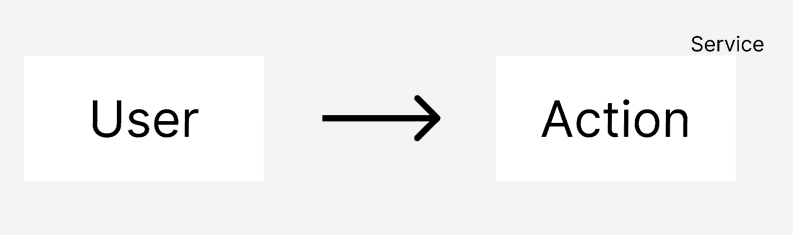
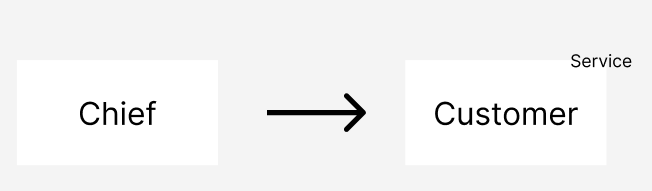
[UPDATE] OCP

diff --git a/oop/OCP.md b/oop/OCP.md
@@ -1,44 +1,78 @@
 # OCP | 개방 폐쇄의 원칙 (Open Closed Principle)
+>개방 폐쇄의 원칙 : 확장에 대해 열려 있어야 하고, 수정에 대해서는 닫혀 있어야 한다
 
-> 개방 폐쇄의 원칙 : 확장에 대해 열려 있어야 하고, 수정에 대해서는 닫혀 있어야 한다
 
-개방 폐쇄의 원칙의 핵심은 __기존 코드를 건드리지 않는다는 것__ 입니다.
+> 즉, "개방 폐쇄의 원칙의 핵심은 기존 코드를 건드리지 않는다는 것입니다."
 
 > 어떻게 기존 코드를 수정하지 않고 확장할 수 있는 거지?
 
-저는 여태껏 객체지향 설계를 배우지 않은 채로 개발을 했었죠. 
-그렇기 때문에 기존의 코드들로는 이 개방 폐쇄의 원칙을 지키기는 어려움이 있습니다.
+OCP를 알지 못한 상태의 설계는 잘못 되어있을 가능성이 높습니다.
+
+따라서 개방 폐쇄의 원칙을 지키기는 어렵습니다.
 그러므로 코드의 __"설계"__ 부터 바꾸어야 합니다.
 
-## 기존의 설계 방식
-
-우선 설계를 바꾸기 전 보통의 사람들이 작성했던 코드 방식을 알아봅시다.
+## 기존 설계 방식
+셰프가 요리를 내어주는 과정을 통해
+기존의 설계 방식이 왜 잘못되었는 지를 알아봅시다.
 
 ![OCP 1](../images/OCP1.png)
+기존에는 셰프가 음식을 요리하여 직접 손님에게 제공하였습니다.
 
-기존에는 유저의 동작을 Service라는 클래스에서 모두 처리했었습니다.
-이 Service에 유저가 할 수 있는 동작들을 메소드별로 작성하였죠.
+이런 설계라면 손님이 많을 때는 셰프가 
 
-이렇게 되면 기능을 추가하거나 수정할 때면 이 Service 클래스의 코드를 변경할 수 밖에 없는 것이죠
+손님을 오래 기다리게 하겠죠..
 
-![OCP 2](../images/OCP2.png)
 
-그렇기에 바로 __"인터페이스"__ 를 쓰는 것입니다.
-인터페이스를 통해 유저가 할 동작들의 메소드를 나열해놓고
-그 동작을 Service 클래스가 Implements를 통해 구현하는 것이죠.
+당연히 셰프는 이를 개선하기 위해 기존의 프로세스를 변경할 것이구요.
 
-그렇게 되면 처음에 Move1로 구현을 하였다가 이후에 추가하거나 수정할 사항이 생기면
-Move2를 만들어서 Action에다 갈아끼우는 것이죠.
+그렇다면 OCP를 위반하게 되고 셰프도 좋은 요리가 나오기 힘들겠죠😭
 
-마치 코드를 하나의 __"부품"__ 처럼 만들어서 갈아끼우는 것입니다.
+## OCP 설계 방식
+그래서 OCP 설계 방식에서는 모든 것을 __"역할"__ 과 __"구현"__ 으로 나눕니다.
 
-## 예시 설명
+![OCP 1](../images/OCP2.png)
 
-예를 들어 제가 A사의 키보드를 하나 사서 컴퓨터에 연결해서 사용하고 있었다고 생각해봅시다.
+손님의 역할은 요리를 제공 받는 것이고,
 
-그런데 어느날 이 키보드가 고장이 나서 사용할 수 없게 되고, 
-저는 B사의 키보드가 마음에 들어 이 B사의 키보드를 구매하여 사용하는 것입니다.
+셰프의 역할은 손님에게 요리를 제공합니다.
 
-키보드가 하는 행위는 동일하지만 다른 키보드를 통해서 이 일을 해내고 있죠.
+셰프가 바꿔어도 손님의 역할은 바뀌지 않습니다.
 
-이처럼 설계를 이러한 방법으로 하게 된다면 언제든 우리의 코드는 기존 코드는 변경하지 않고도 기능을 수정하고, 추가할 수 있게 됩니다.
+이를 통해 손님의 역할은 변하지 않고, 음식을 제공을 받을 수 있는 것이죠.
+
+다시말해, 셰프가 요리를 할 수만 있다면 얼마든 지 메뉴를 추가하고 수정해도 손님에게 요리를 제공할 수 있습니다.
+
+또 다른 예시를 들어볼까요?
+
+제가 로미오와 줄리엣의 연극을 기획하게 됐다고 가정합시다.
+
+로미오의 역할을 최우식님이 하고 줄리엣의 역할을 김다미님으로 캐스팅했다고 가정해보겠습니다.
+
+그런데 어느날 최우식님이 사고를 당해 연극을 못나오게 된다면 우리는 이 상황에서 어떻게 할까요?
+
+긴급하게 로미오의 다른 남자 배우를 캐스팅할 것입니다.
+
+로미오의 배역만 변경되었으므로 연극을 하는데에는 아무 문제가 없죠. 
+
+즉, 로미오를 연기하는 사람만 바뀌었을 뿐 로미오의 역할은 변하지 않았습니다.
+
+이처럼 OCP 설계를 통해 우리는 언제나 __기존 코드를 변경하지 않고도 기능을 수정하고, 추가__ 할 수 있게 됩니다.
+
+## 왜 LSP를 지켜야할까?
+
+위에서 얘기한 LSP를 요약하자면 다음과 같습니다.
+
+모든 것들을 역할과 구현으로 나누고 역할은 고정된 채 구현만 새로 만들어 기능을 추가하고 수정한다.
+
+저는 여기서 한가지 의문점이 들었습니다.
+왜 굳이 모든 것을 역할과 구현으로 나누어야 할까요?
+
+개발을 하면서 나 혼자만 코드를 보진 않죠.
+
+결국 언젠가는 내가 아닌 다른 사람이 내 코드 보게 될 수 있을 테고
+LSP를 사용하지 않는다면 유지보수 하기가 매우 어려울 것입니다.
+
+왜냐하면 전체적인 코드의 흐름이나, 동작방식, 파일구조 등을 이해하고 있어야만이
+코드를 수정할 것이고 이는 너무나 큰 자원을 소모하게 만듭니다.
+
+따라서 이러한 자원을 줄일 수 있도록 역할과 구현을 통한 설계를 활용해야합니다.
